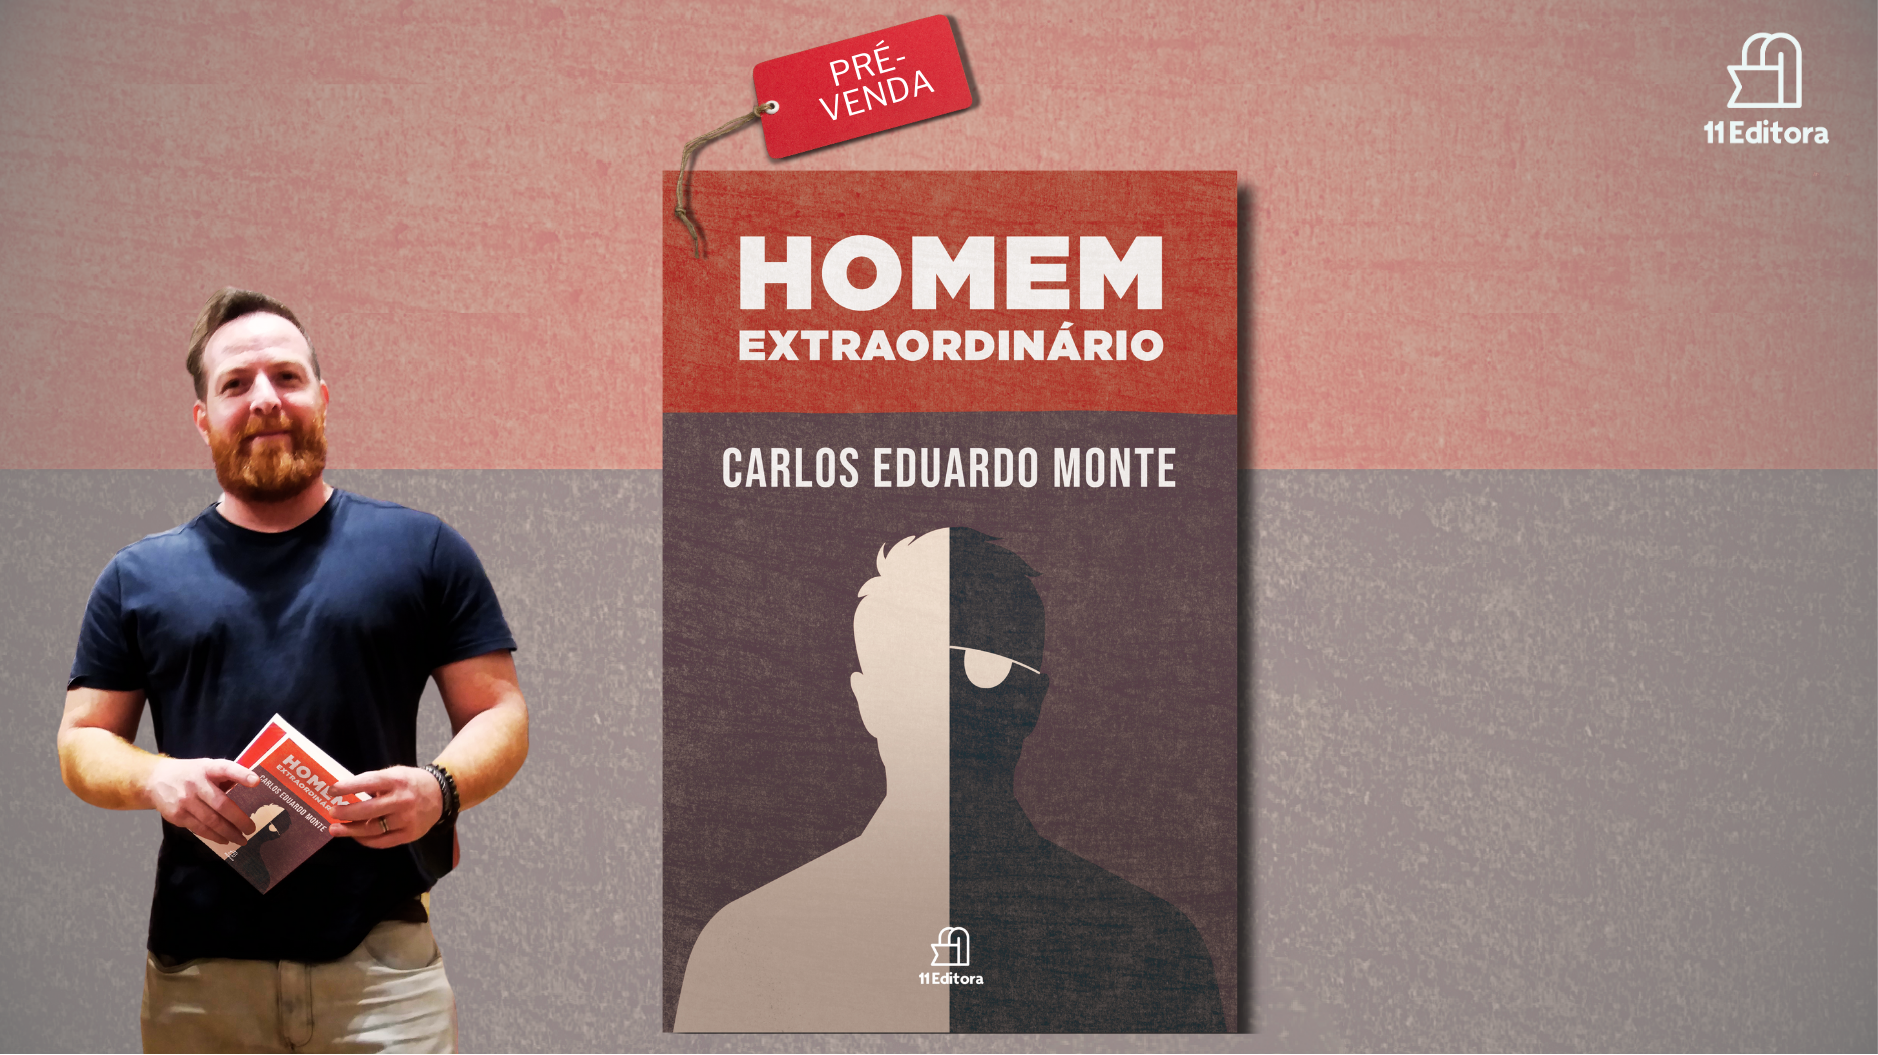
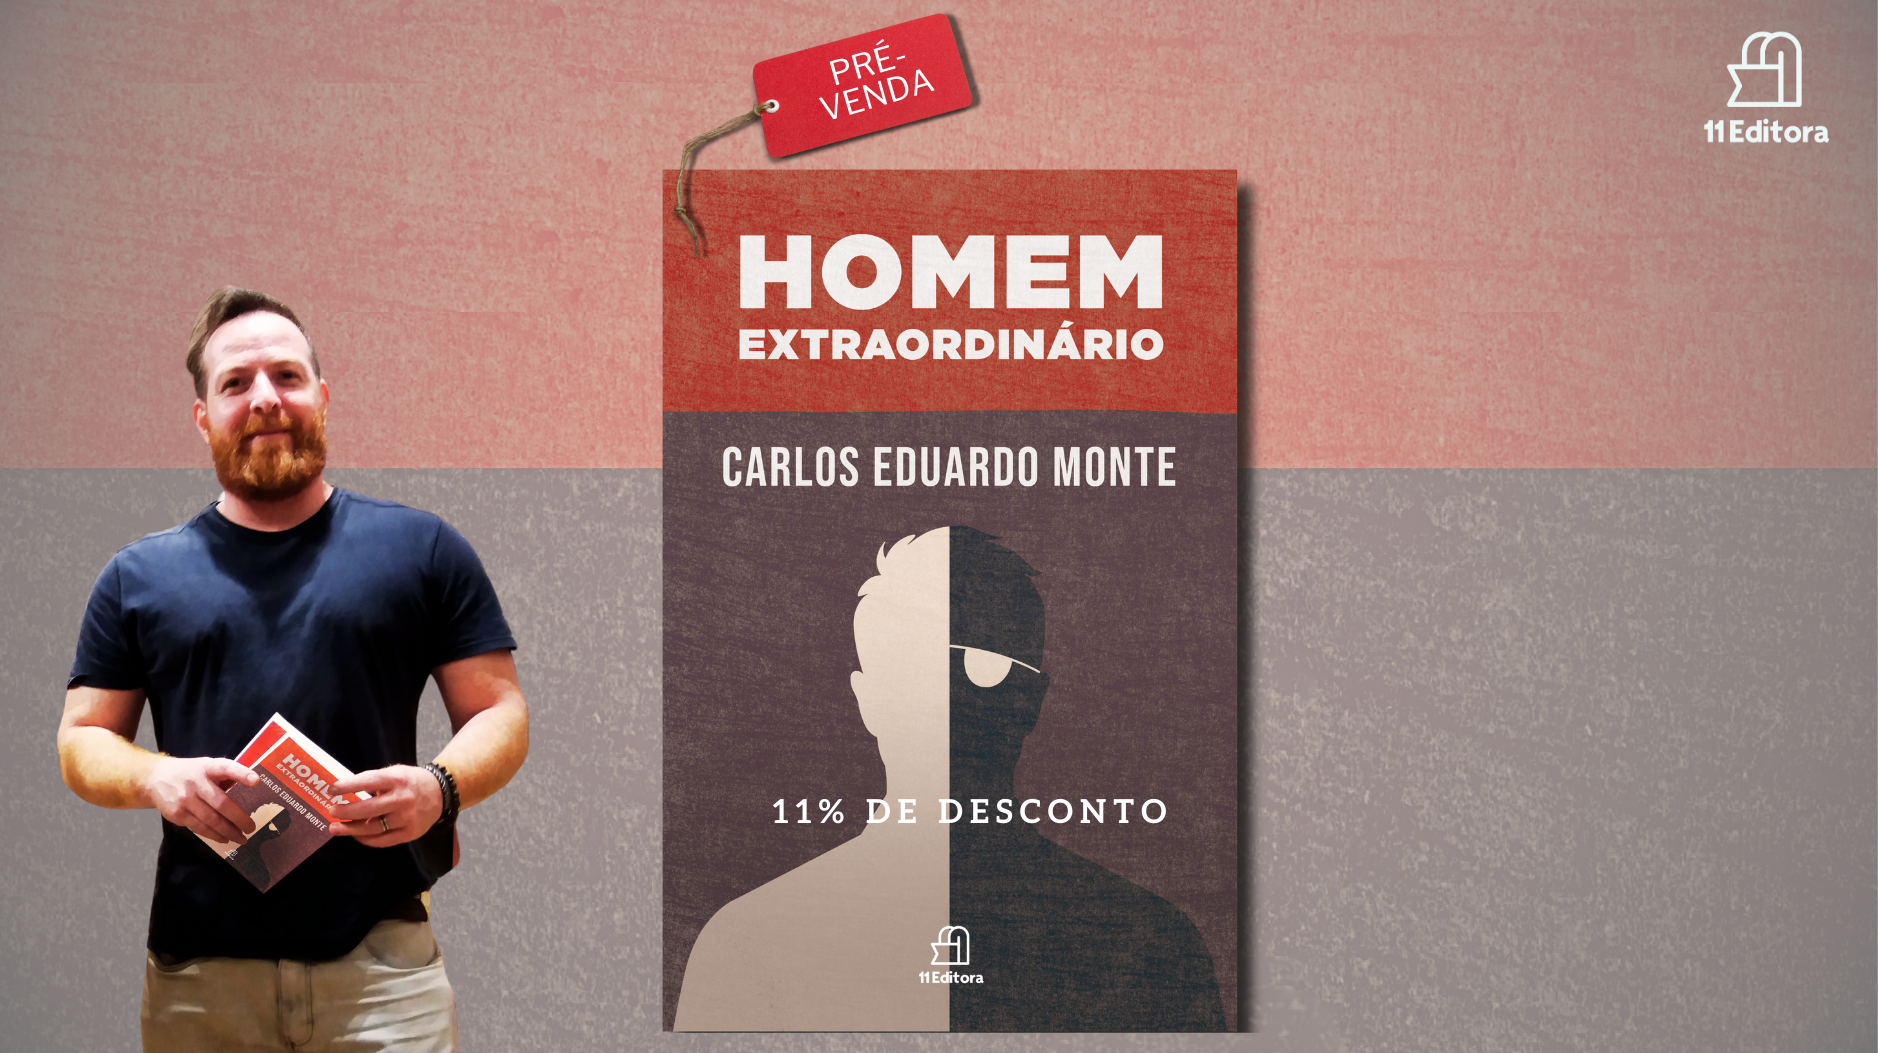
wip desktop

diff --git a/src/app/page.tsx b/src/app/page.tsx
@@ -1,8 +1,12 @@
 import Header from './components/Header'
 import AboutBlock from './components/AboutBlock'
 import GiftTiers from './components/GiftTiers'
+import Timer from './components/Timer'
+import Cta from './components/Cta'
+
 import { getTextDictionary } from './services/getTextDictionary'
 import { getTiers } from './services/getTiers'
+import { calculateEndSale } from './business/calculateEndSale'
 
 export default function Home() {
   const texts = getTextDictionary();
@@ -11,16 +15,25 @@ export default function Home() {
     <div>
       <Header></Header>
 
-      <main className='flex justify-between py-10 px-10'>
-      <section className="w-6/10">
-        <AboutBlock title={ texts.book.title } text={ texts.book.description }/>
-        <AboutBlock title={ texts.author.name } text={ texts.author.description }/>
+      <section className="p-10 flex justify-center align-center flex-col text-center">
+        <p className='text-4xl font-bold primary-color-text'> { texts.general.support } </p>
+        <Timer endDate={ calculateEndSale(texts.general) } />
       </section>
-      <aside className="w-1/3">
-        <h3>Recompensas</h3>
-        <GiftTiers tiers={ getTiers(texts.gift) }/>
-      </aside>
+
+      <main className='flex justify-between p-10'>
+        <section className="w-6/10">
+          <AboutBlock title={ texts.book.title } text={ texts.book.description }/>
+          <AboutBlock title={ texts.author.name } text={ texts.author.description }/>
+        </section>
+        <aside className="w-1/3">
+          <div className="pt-10">
+            <h3 className="text-2xl font-bold secondary-color-text uppercase">Recompensas</h3>
+            <GiftTiers tiers={ getTiers(texts.gift) }/>
+          </div>
+        </aside>
       </main>
+
+      <Cta className='pt-10'/>
     </div>
   )
 }

diff --git a/src/app/helpers/dateHelper.ts b/src/app/helpers/dateHelper.ts
@@ -1,0 +1,35 @@
+export const dateHelper = {
+  millisecondsInDay: 1000 * 60 * 60 * 24,
+  millisecondsInHour: 1000 * 60 * 60,
+  millisecondsInMinute: 1000 * 60,
+  millisecondsInSecond: 1000,
+
+  internationalizeDate: (date: string): string => {
+    const toDate = new Date(date);
+    const options: Intl.DateTimeFormatOptions = { day: 'numeric', month: 'long', year: 'numeric' };
+
+    const formatter = new Intl.DateTimeFormat('pt-BR', options);
+    const formattedDate = formatter.format(toDate);
+
+    return formattedDate;
+  },
+
+  toMilliseconds: (date: string): number => {
+    const toDate = new Date(date);
+    return toDate.getTime();
+  },
+
+  timerFormatted: (time: number): string => {
+    const { millisecondsInDay, millisecondsInHour, millisecondsInMinute, millisecondsInSecond } = dateHelper;
+
+    const days = Math.floor(time / millisecondsInDay);
+    const hours = Math.floor((time % millisecondsInDay) / millisecondsInHour);
+    const minutes = Math.floor((time % millisecondsInHour) / millisecondsInMinute);
+    const seconds = Math.floor((time % millisecondsInMinute) / millisecondsInSecond);
+
+    return `${days} d
+            : ${hours.toString().padStart(2, '0')} h
+            : ${minutes.toString().padStart(2, '0')} m
+            : ${seconds.toString().padStart(2, '0')} s`;
+  },
+};

diff --git a/src/app/components/Timer.tsx b/src/app/components/Timer.tsx
@@ -1,0 +1,32 @@
+'use client'
+
+import React, { useEffect, useState } from 'react';
+import { dateHelper } from '../helpers/dateHelper';
+
+type TimerProps = {
+  endDate: Record<string, string>
+}
+
+const Timer: React.FC<TimerProps> = ({ endDate }) => {
+  const [remainingTime, setRemainingTime] = useState(0);
+
+  useEffect(() => {
+    const interval = setInterval(() => {
+      const currentTime = new Date().getTime();
+      const endTime = dateHelper.toMilliseconds(endDate.date);
+      const timeDifference = endTime - currentTime;
+      setRemainingTime(timeDifference);
+    }, 1000);
+
+    return () => clearInterval(interval);
+  }, [endDate.date]);
+
+  return (
+    <div className="pt-5">
+      <p className="text-2xl font-semibold secondary-color-text">{ endDate.description }</p>
+      <p className="text-4xl font-bold">{ dateHelper.timerFormatted(remainingTime) }</p>
+    </div>
+  );
+};
+
+export default Timer;

diff --git a/src/app/globals.css b/src/app/globals.css
@@ -9,6 +9,7 @@
   --primary-brand-color-hex: #b92400;
   --secondary-brand-color-hex: #555;
   --general-color-hex: #454545;
+  --light-gray: #f8f8f8;
 }
 
 @media (prefers-color-scheme: dark) {
@@ -49,6 +50,14 @@ main {
   color: var(--secondary-brand-color-hex);
 }
 
+.bg-light-gray {
+  background-color: var(--light-gray);
+}
+
+.primary-color-text {
+  color: var(--primary-brand-color-hex);
+}
+
 .top-4\/10 {
   top: 40%;
 }
@@ -57,7 +66,7 @@ main {
   width: 60%;
 }
 
-a {
+.cta {
   padding: 0.6rem 5rem;
   border-color: #fff;
   border-width: 4px;
@@ -68,7 +77,7 @@ a {
   font-size: 1.5rem;
 }
 
-a:hover {
+.cta:hover {
   background-color: var(--secondary-brand-color-hex);
 }
 

diff --git a/src/app/components/Footer.tsx b/src/app/components/Footer.tsx
@@ -1,0 +1,20 @@
+type FooterProps = {
+  copyright: string,
+  developerDescription: string,
+  developerURL: string
+}
+
+const Footer: React.FC<FooterProps> = ({ copyright, developerDescription, developerURL }) => {
+  return (
+    <footer className="bg-light-gray secondary-color-text p-5">
+      <div className="container">
+        <span>{copyright}</span>
+        <span>
+          <a href={developerURL} className="primary-color-text">{developerDescription}</a>
+        </span>
+      </div>
+    </footer>
+  );
+}
+
+export default Footer;

diff --git a/src/app/business/calculateEndSale.ts b/src/app/business/calculateEndSale.ts
@@ -1,0 +1,14 @@
+import { dateHelper } from '../helpers/dateHelper';
+
+export const calculateEndSale = (general: any): Record<string, string> => {
+  const currentDate = new Date();
+  const discountDate = new Date(general.end_discount.date);
+  const endDate = new Date(general.end_sale.date);
+  const isPastDiscountDate  = currentDate > discountDate;
+  const key = isPastDiscountDate ? 'end_sale' : 'end_discount';
+
+  return {
+    date: general[key].date,
+    description: general[key].description,
+  };
+}

diff --git a/src/app/components/Cta.tsx b/src/app/components/Cta.tsx
@@ -5,7 +5,7 @@ interface CtaProps {
 const Cta: React.FC<CtaProps> = ({ className }) => {
   return (
     <div className={`${className} min-w-full flex justify-center align-center`}>
-      <a className='rounded-full primary-color-bg hero-btn ease-in-out duration-300'
+      <a className='cta rounded-full primary-color-bg hero-btn ease-in-out duration-300'
         href="https://www.11editora.com.br/livraria/homem-extraordinario">Comprar</a>
     </div>
   );

diff --git a/src/app/components/Gifts.tsx b/src/app/components/Gifts.tsx
@@ -6,8 +6,8 @@ type GiftsProps = {
 const Gifts: React.FC<GiftsProps> = ({ title, items }) => {
   return (
     <div>
-      <h2>{title}</h2>
-      <ul>
+      <h2 className="text-xl pt-4 font-semibold secondary-color-text">{title}</h2>
+      <ul className="pt-1 list-disc">
         {items.map((item, index) => (
           <li key={index}>{item}</li>
         ))}

diff --git a/src/app/components/Header.tsx b/src/app/components/Header.tsx
@@ -19,7 +19,7 @@ const Header = () => {
       </div>
       
       <div className="cta-container">
-        <Cta className='min-w-full'/>
+        <Cta/>
       </div>
     </header>
   );
